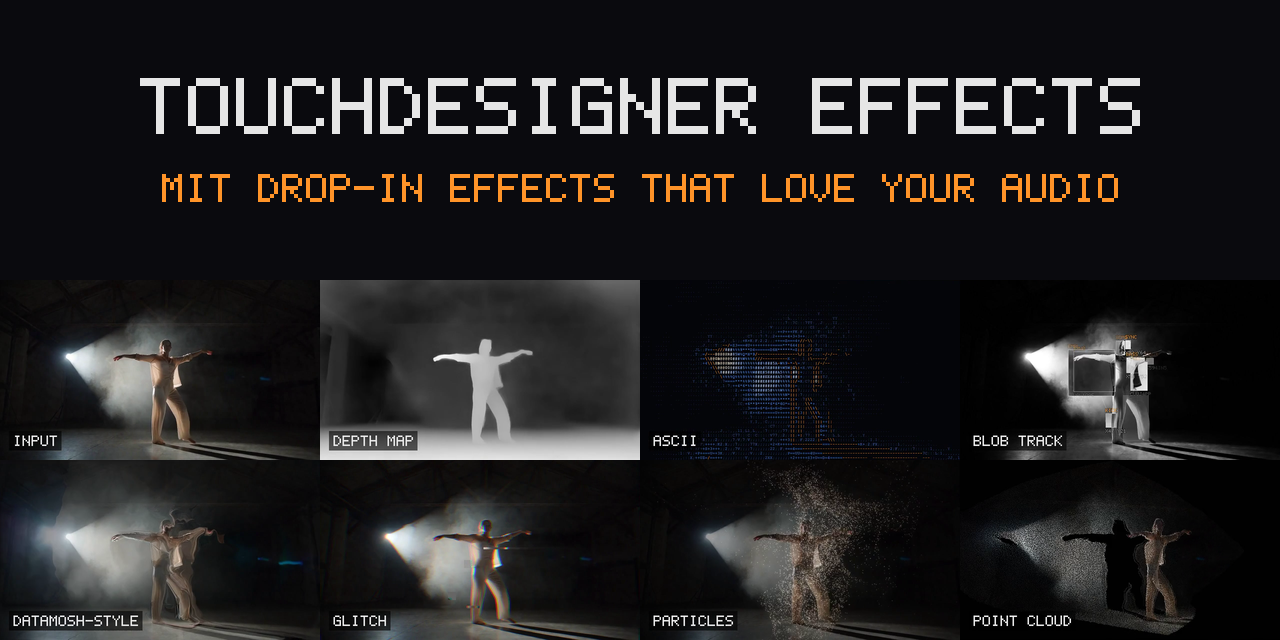
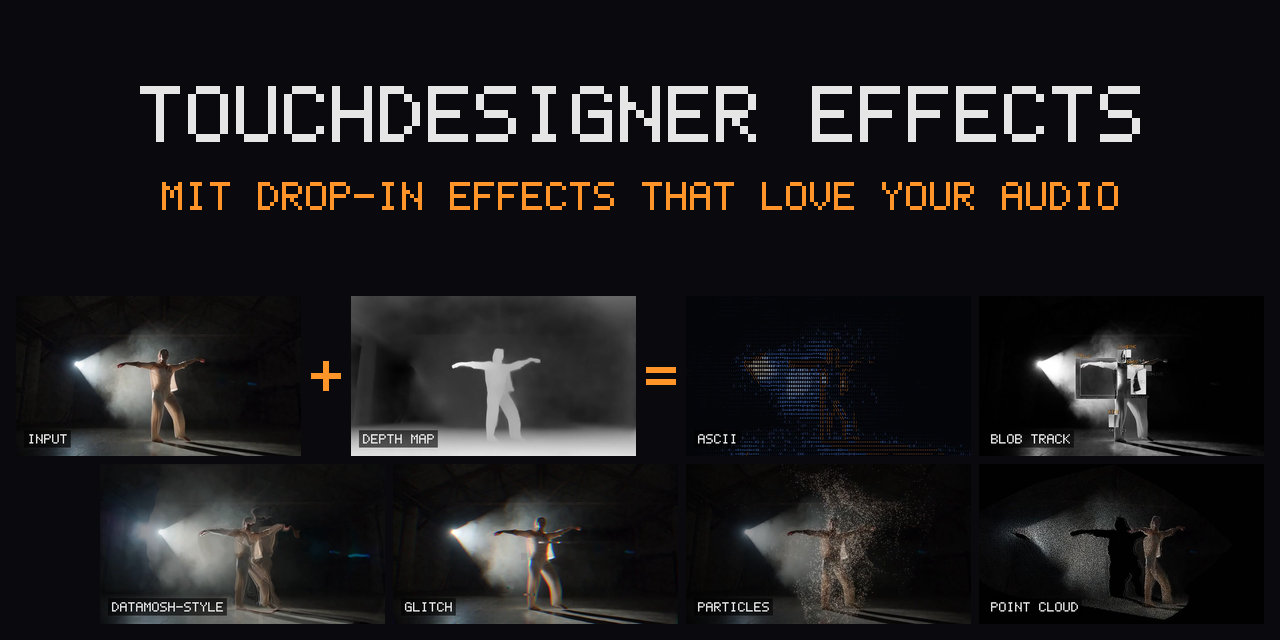
Social preview: input + depth map = the effects
- docs/social-preview.png reads as a sum: INPUT + DEPTH MAP = ASCII,
  BLOB TRACK, and under them DATAMOSH-STYLE, GLITCH, PARTICLES and POINT
  CLOUD. The + and = are orange in the library's 5 x 7 font; the six
  effects are right-aligned as one block (ASCII and Blob Track over
  Particles and Point Cloud), 8 px apart, so what goes in and what
  comes out are told apart at a glance.
- dev/social.py lays it out; text() can start at a given x.

diff --git a/dev/social.py b/dev/social.py
@@ -1,7 +1,9 @@
 """DEV ONLY. The repository's social preview (GitHub, Settings, Social preview: what a shared link
 shows): 1280 x 640, the library's name and a line about it in its own 5 x 7 font over the eight cells
 of the tiled preview's still (dev/tile.py --still: the input, its depth map and every effect, 3 x 3
-with the first row centered). Upload docs/social-preview.png by hand; GitHub has no API for it.
+with the first row centered), laid out as a sum: input + depth map = ASCII, Blob Track, and under
+them the other four effects, the six right-aligned as one block with slight gaps between them. Upload
+docs/social-preview.png by hand; GitHub has no API for it.
 
     uv run --with pillow dev/social.py dev/out/record/hero_still.png docs/social-preview.png
 """
@@ -17,6 +19,9 @@ W, H = 1280, 640
 BG = (10, 10, 14)
 INK = (230, 230, 230)                       # the labels' 0.9
 ORANGE = (255, 148, 41)                     # ASCII's ORANGE, (1.0, 0.58, 0.16)
+MARGIN, GAP = 16, 8                          # around the cells; between the effects' cells and the rows
+SIGN = 6                                     # pixels per font pixel of the + and =
+SLOT = 5 * SIGN + 20                         # the room a + or = takes between two cells
 TITLE, LINE = 'TOUCHDESIGNER EFFECTS', 'MIT DROP-IN EFFECTS THAT LOVE YOUR AUDIO'
 
 
@@ -27,10 +32,11 @@ def font():
     return mod
 
 
-def text(im, s, scale, y, color):
-    """s in the 5 x 7 font, scale pixels per font pixel, centered, its top at y."""
+def text(im, s, scale, y, color, x0=None):
+    """s in the 5 x 7 font, scale pixels per font pixel, its top at y: centered, or from x0."""
     f = font()
-    x0 = (im.width - (len(s) * 6 - 1) * scale) // 2
+    if x0 is None:
+        x0 = (im.width - (len(s) * 6 - 1) * scale) // 2
     for i, ch in enumerate(s):
         for gy, row in enumerate(f.GLYPHS[ch].split()):
             for gx, c in enumerate(row):
@@ -47,14 +53,25 @@ def main():
     boxes = [(cw // 2, 0), (cw // 2 + cw, 0)] + [(c * cw, r * ch) for r in (1, 2) for c in range(3)]
     cells = [src.crop((x, y, x + cw, y + ch)) for x, y in boxes]
     im = Image.new('RGB', (W, H), BG)
-    sw, sh = W // 4, W // 4 * 9 // 16          # four across, 16:9
-    top = H - 2 * sh
+    # Row 1: input + depth map = ASCII, Blob Track; row 2: the other four effects, right-aligned with
+    # row 1 so the six effects make one block. Every cell 16:9, as wide as row 1 allows.
+    sw = (W - 2 * MARGIN - 2 * SLOT - GAP) // 4
+    sh = sw * 9 // 16
+    row1 = 4 * sw + 2 * SLOT + GAP
+    x1 = (W - row1) // 2
+    x2 = x1 + row1 - (4 * sw + 3 * GAP)
+    y2 = H - MARGIN - sh
+    y1 = y2 - GAP - sh
+    places = [(x1, y1), (x1 + sw + SLOT, y1), (x1 + 2 * sw + 2 * SLOT, y1), (x1 + 3 * sw + 2 * SLOT + GAP, y1)]
+    places += [(x2 + k * (sw + GAP), y2) for k in range(4)]
+    for cell, xy in zip(cells, places):
+        im.paste(cell.resize((sw, sh), Image.LANCZOS), xy)
+    for k, sign in enumerate('+='):
+        text(im, sign, SIGN, y1 + (sh - 7 * SIGN) // 2, ORANGE, x1 + (k + 1) * sw + k * SLOT + (SLOT - 5 * SIGN) // 2)
     # The title (8 pixels per font pixel) and the line (4) centered in the band above the cells.
-    y = (top - (7 * 8 + 40 + 7 * 4)) // 2
+    y = (y1 - (7 * 8 + 40 + 7 * 4)) // 2
     text(im, TITLE, 8, y, INK)
     text(im, LINE, 4, y + 7 * 8 + 40, ORANGE)
-    for i, cell in enumerate(cells):
-        im.paste(cell.resize((sw, sh), Image.LANCZOS), ((i % 4) * sw, top + (i // 4) * sh))
     im.save(out, optimize=True)
     print(out, im.size, '{:.0f} KB'.format(os.path.getsize(out) / 1024))
 
